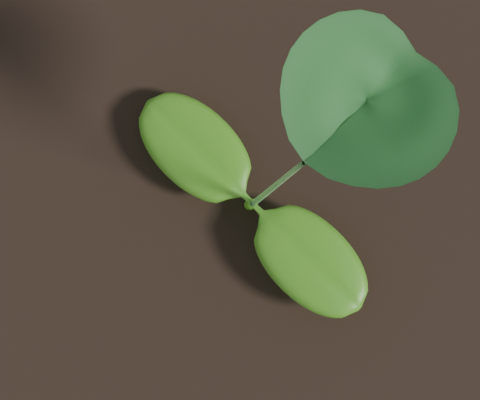
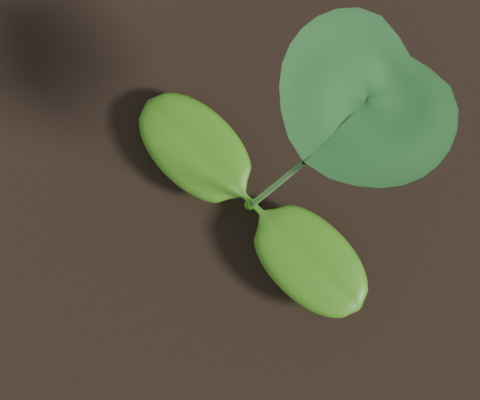
UNDERSOIL: flatter, heart-shaped first clover leaf; factcheck notes applied to the species ledger
Claude-Session: https://claude.ai/code/session_01HXHWaeyj425ipGMnohy3Vo

diff --git a/undersoil/assets/blender/clover_seedling.py b/undersoil/assets/blender/clover_seedling.py
@@ -147,7 +147,7 @@ def make_seedling():
 # つけ根は少しとがって葉柄につながる。以前は両端のとがったレンズ形で、画面では半月形に見えていた。
 # 格子は葉の中心から放射状：列 u（0＝先、±1＝つけ根）、行 x（中心→ふち）
 def _leaf_r(th):
-    r = 1.0 - 0.17 * math.exp(-(th / 0.32) ** 2)                      # 先の中央の浅いくぼみ
+    r = 1.0 - 0.26 * math.exp(-(th / 0.40) ** 2)                      # 先の中央のくぼみ（写真のハート形）
     r *= 1.0 + 0.10 * math.exp(-((abs(th) - math.pi) / 0.45) ** 2)    # つけ根は少しとがる
     return r * (1.0 + 0.05 * math.cos(2 * th))
 _LB = -_leaf_r(math.pi)
@@ -172,9 +172,9 @@ def build_leaf(grow, unfold):
             a = 2 * math.pi * k / LSIDES; V.append(c + (tn * math.cos(a) + sx * math.sin(a)) * r)
     top = node + pd * pl + tb * (pl * 0.05) - td * (pl * 0.04)
     Ls = LEAF_L * (0.12 + 0.88 * grow) * (0.35 + 0.65 * unfold); Ws = LEAF_W * 0.5 * (0.12 + 0.88 * grow) * (0.4 + 0.6 * unfold)
-    tiltb = math.radians(20 + 52 * unfold) * grow                                # 葉身は葉柄の先で外へ倒れ、表が斜め上を向く
+    tiltb = math.radians(20 + 64 * unfold) * grow                                # 葉身は葉柄の先で外へ倒れ、表が斜め上を向く
     bd = (pd * math.cos(tiltb) + tb * math.sin(tiltb)).normalized(); bn = (pd * math.sin(tiltb) - tb * math.cos(tiltb)).normalized()   # 葉の表の向き。両側は、中央の葉脈から上へ浅く持ち上がる（V 字）
-    fold = math.radians(86 - 64 * unfold)                                        # 片側の持ち上がり角（閉じ 86° → 開き 16°）
+    fold = math.radians(86 - 79 * unfold)                                        # 片側の持ち上がり角（閉じ 86° → 開き 7°。写真の葉はほぼ平ら）
     for j in range(LV + 1):
         x = j / LV
         for i in range(LU + 1):

diff --git a/undersoil/Docs/REFERENCE/species/colpoda.md b/undersoil/Docs/REFERENCE/species/colpoda.md
@@ -37,7 +37,7 @@
 | 厚さ | 平たい（背と腹の方向につぶれている）。数値は未確認。モデルは幅の約60%を仮の値とする（△） | 国立環境研究所（「背腹に平たい」） |
 | 口の位置 | 前の端から、口のくぼみの前のふちまで約20µm、後ろのふちまで約34µm（体長64µmのとき。体の前から約3分の1〜2分の1） | Kim et al. 2016 |
 | 前側のふちの刻み目 | 8〜10個（韓国の個体群は9〜10個）。口より前の、くぼんだ側のふちに並ぶ小さなぎざぎざ（繊毛の列の溝の端） | 国立環境研究所、Kim et al. 2016 |
-| 繊毛の列 | 約33〜35列（北米の個体群は平均36.8列）。前から後ろへ、ややらせんを描いて走る。繊毛は多くが2本ずつ対になって生える | Kim et al. 2016、国立環境研究所 |
+| 繊毛の列 | 約33〜35列（Kim ら 2016。別の文献では29〜34本の溝〈国立環境研究所〉。北米の個体群の平均36.8列は原表で未確認）。前から後ろへ、ややらせんを描いて走る。繊毛は多くが2本ずつ対になって生える | Kim et al. 2016、国立環境研究所 |
 | 繊毛の長さ | 未確認。集計表に、種名不明のコルポダで10.7µm という推定値がある | BOSO-Micro（「?」つきの推定値） |
 | 大核 | 1個。ほぼ球形で、直径約11µm（11.6 × 10.8µm） | Kim et al. 2016 |
 | 小核 | 1個。約2.5 × 2.0µm | 同上 |

diff --git a/undersoil/Docs/REFERENCE/species/tardigrade.md b/undersoil/Docs/REFERENCE/species/tardigrade.md
@@ -42,7 +42,7 @@
 
 | 項目 | 値 |
 |---|---|
-| 体長 | 393〜711µm、平均540µm（標準偏差75）。基準標本（ホロタイプ）は485µm |
+| 体長 | 393〜711µm（記載文の本文で確認）。平均540µm・標準偏差75・基準標本485µm は原表で未確認 |
 | 体の太さ | 記載なし（未確認）。写真からの目測で、体長の約4分の1〜3分の1（幅140〜180µm／体長540µm のとき）△ |
 | 口の管の長さ | 40.0〜58.4µm、平均48.1µm（体長の約9%） |
 | 口の管の太さ（外側） | 7.6〜12.0µm、平均10.0µm |
